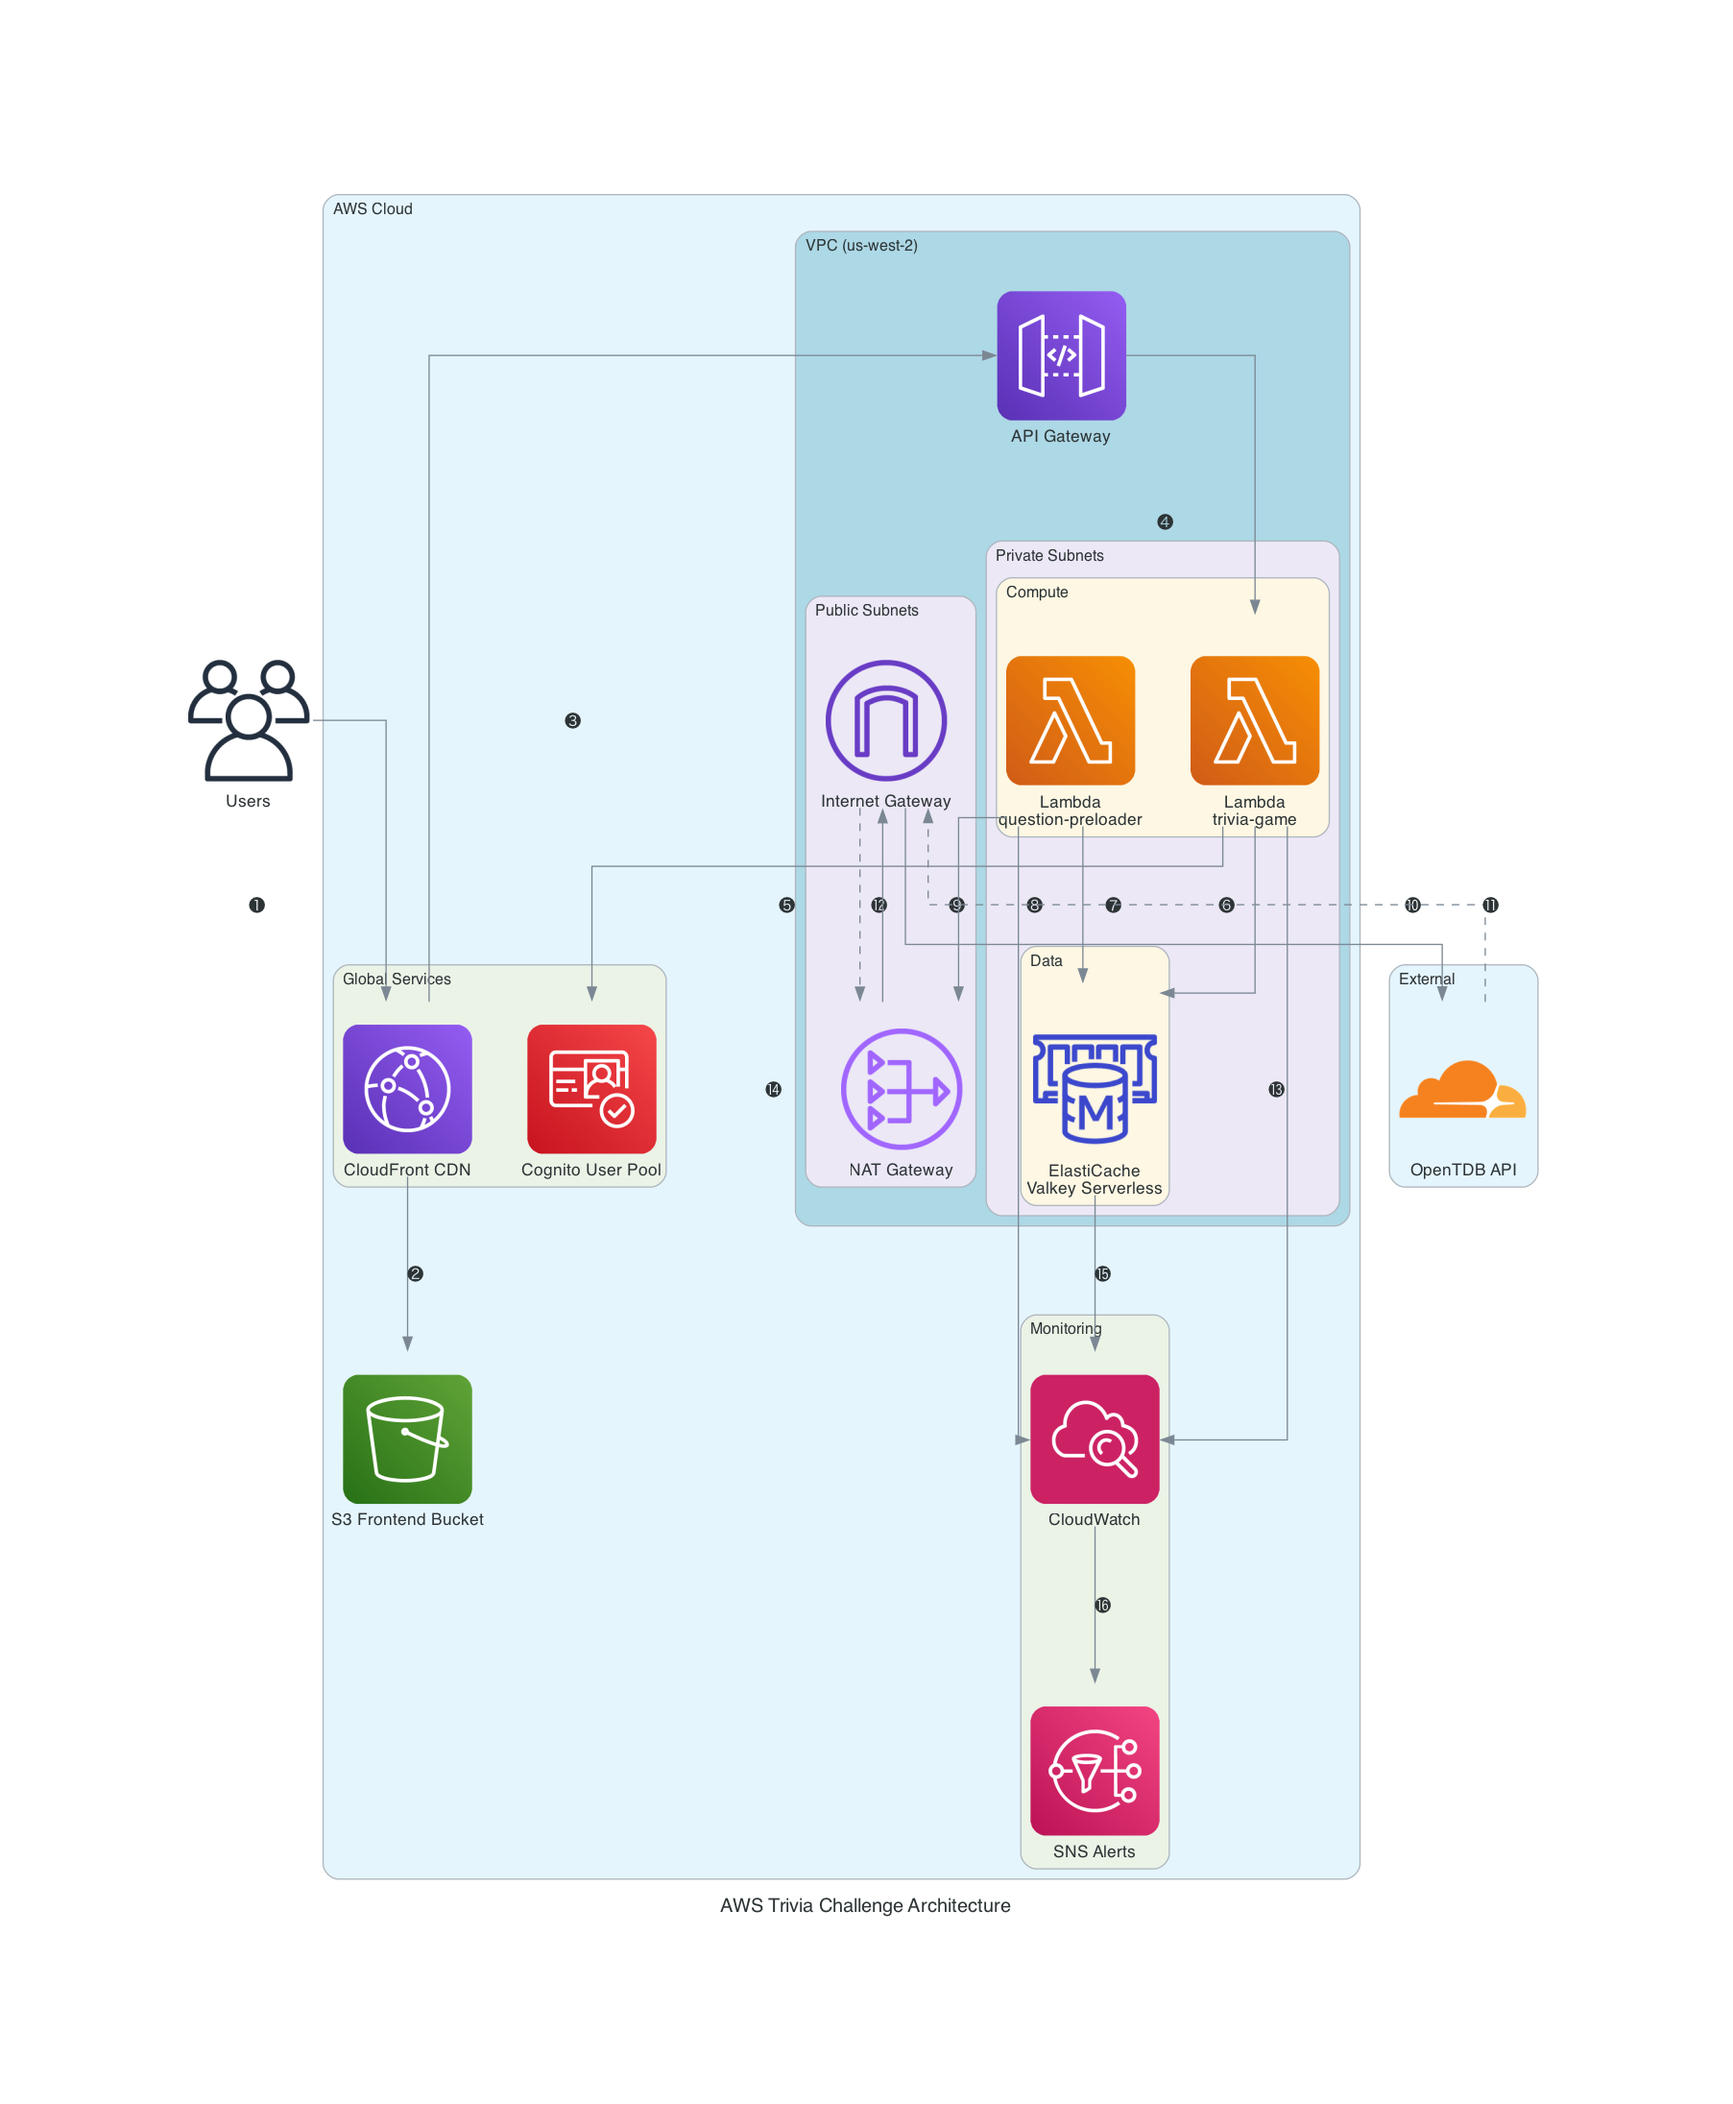
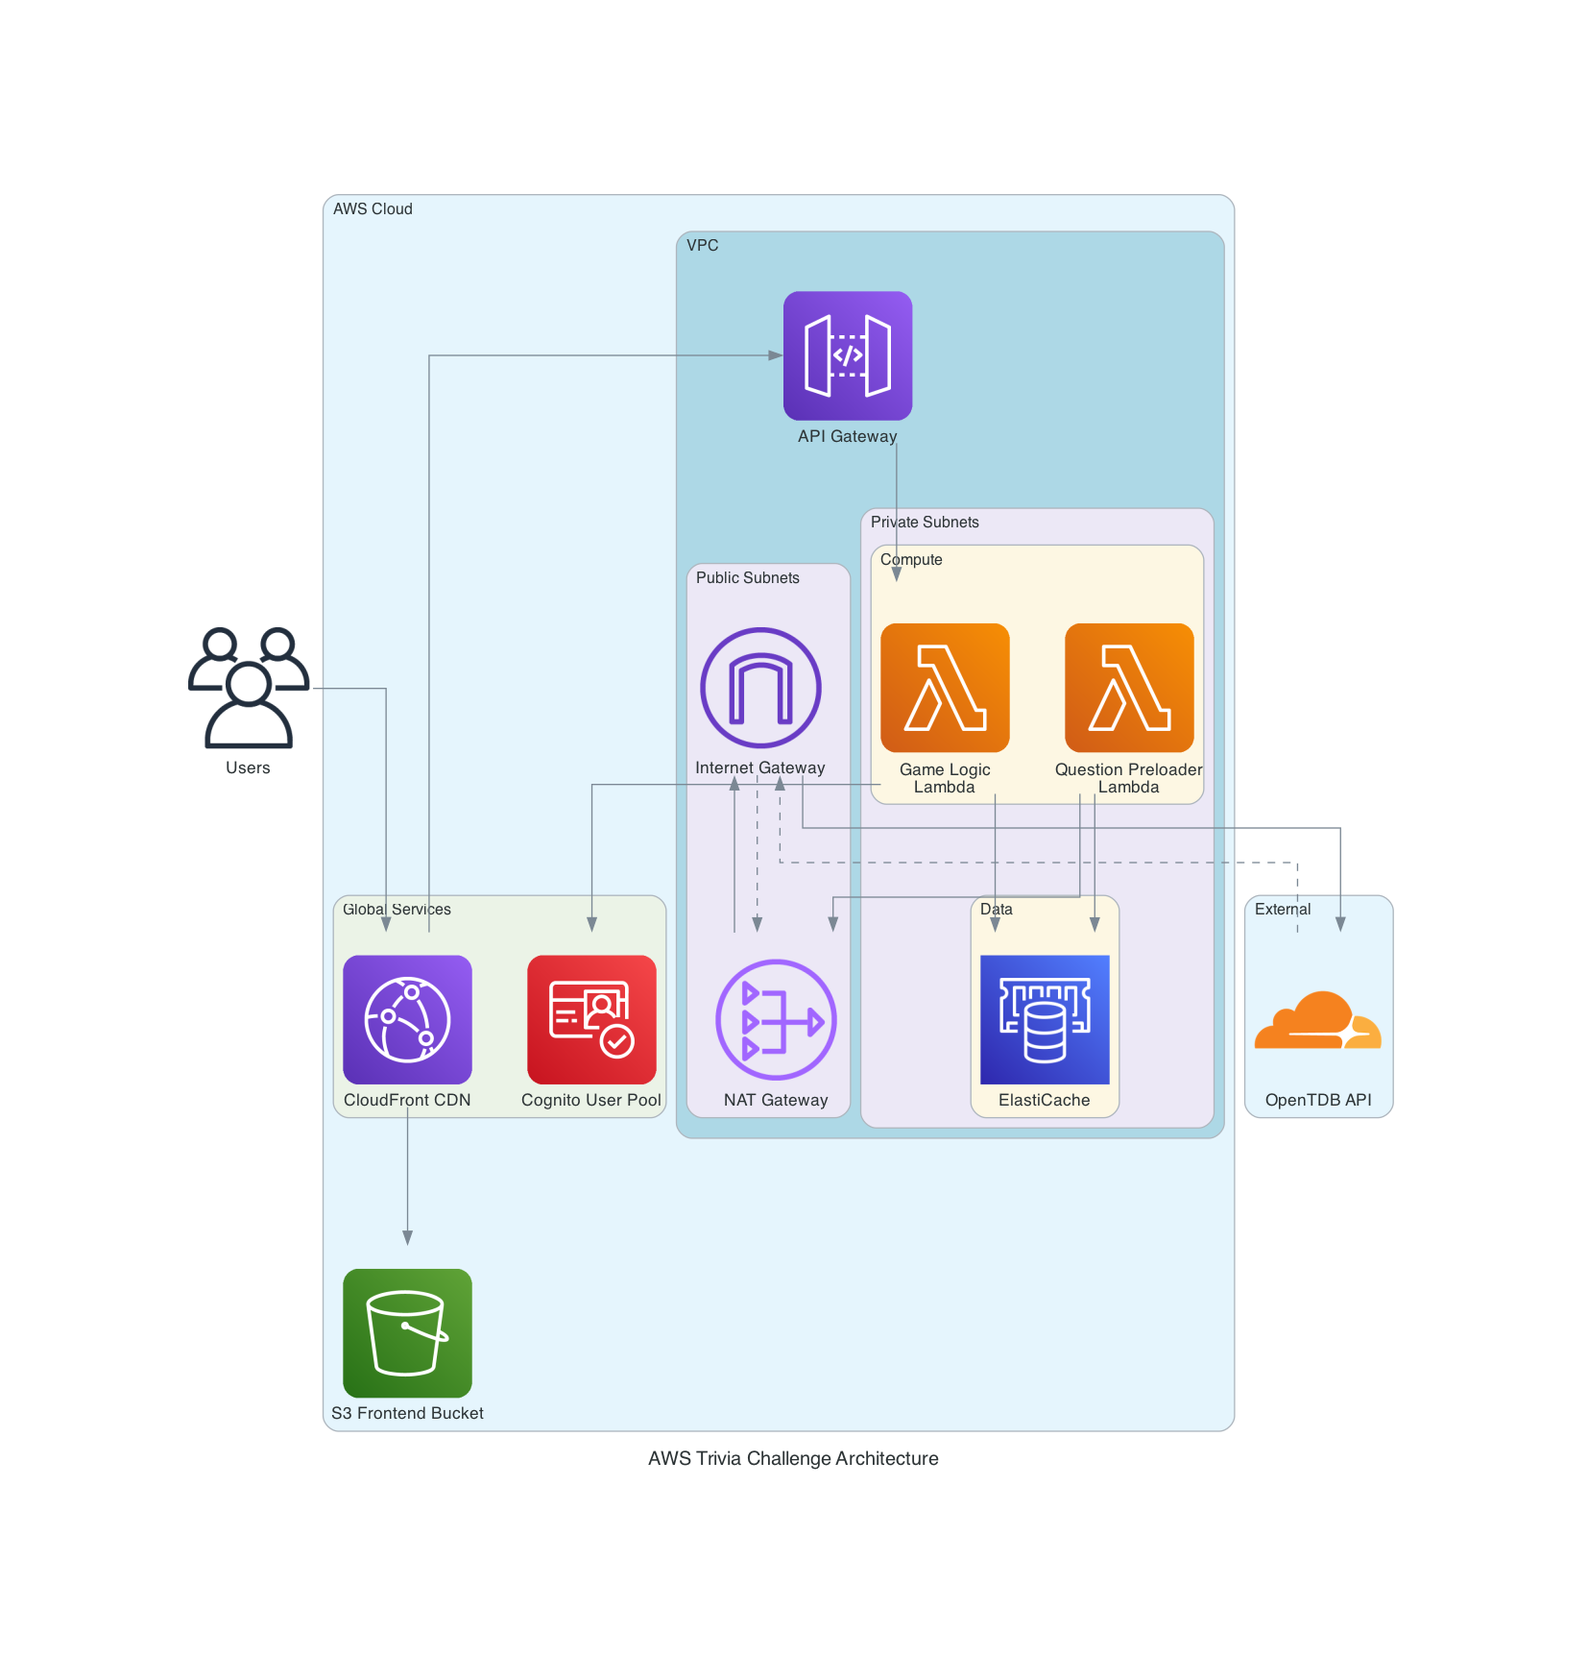
Final commit: updated architecture diagram, question preloader, and cleanup files

Changed region(s): [[0.0925, 0.0922, 0.8942, 0.9223]]

diff --git a/load-questions.js b/load-questions.js
@@ -1,0 +1,147 @@
+const axios = require('axios');
+const valkeyClient = require('./valkey-client');
+
+// HTML entity decoder
+const HTML_ENTITIES = {
+    '&amp;': '&',
+    '&lt;': '<',
+    '&gt;': '>',
+    '&quot;': '"',
+    '&#x27;': "'",
+    '&#039;': "'",
+    '&apos;': "'",
+    '&nbsp;': ' ',
+    '&rsquo;': "'",
+    '&lsquo;': "'",
+    '&rdquo;': '"',
+    '&ldquo;': '"',
+    '&aelig;': 'æ',
+    '&iacute;': 'í',
+    '&oacute;': 'ó',
+    '&ccedil;': 'ç',
+    '&uuml;': 'ü',
+    '&ouml;': 'ö',
+    '&auml;': 'ä',
+    '&eacute;': 'é',
+    '&egrave;': 'è',
+    '&ecirc;': 'ê',
+    '&euml;': 'ë',
+    '&ntilde;': 'ñ',
+    '&agrave;': 'à',
+    '&aacute;': 'á',
+    '&acirc;': 'â',
+    '&atilde;': 'ã',
+    '&ugrave;': 'ù',
+    '&uacute;': 'ú',
+    '&ucirc;': 'û',
+    '&igrave;': 'ì',
+    '&icirc;': 'î',
+    '&iuml;': 'ï',
+    '&ograve;': 'ò',
+    '&ocirc;': 'ô',
+    '&otilde;': 'õ',
+    '&lrm;': '',
+    '&rlm;': ''
+};
+
+function decodeHtmlEntities(text) {
+    if (!text || typeof text !== 'string') return text;
+    
+    const entityRegex = /&(?:amp|lt|gt|quot|#x27|#039|apos|nbsp|rsquo|lsquo|rdquo|ldquo|aelig|[ioa](?:acute|grave|circ|tilde|uml)|[eun](?:acute|grave|circ|tilde|uml)|ccedil|[lr]m);/g;
+    
+    return text.replace(entityRegex, (match) => {
+        return HTML_ENTITIES[match] || match;
+    });
+}
+
+function getWeekKey() {
+    const now = new Date();
+    const year = now.getFullYear();
+    const week = getWeekNumber(now);
+    return `${year}-W${week.toString().padStart(2, '0')}`;
+}
+
+function getWeekNumber(date) {
+    const d = new Date(Date.UTC(date.getFullYear(), date.getMonth(), date.getDate()));
+    const dayNum = d.getUTCDay() || 7;
+    d.setUTCDate(d.getUTCDate() + 4 - dayNum);
+    const yearStart = new Date(Date.UTC(d.getUTCFullYear(), 0, 1));
+    return Math.ceil((((d - yearStart) / 86400000) + 1) / 7);
+}
+
+async function fetchQuestionsFromAPI(amount = 50, category = 9) {
+    try {
+        const response = await axios.get('https://opentdb.com/api.php', {
+            params: {
+                amount,
+                category,
+                type: 'multiple',
+                encode: 'url3986'
+            },
+            timeout: 10000
+        });
+
+        if (response.data.response_code !== 0) {
+            throw new Error(`API error: ${response.data.response_code}`);
+        }
+
+        return response.data.results.map((q, index) => ({
+            id: `api_${category}_${Date.now()}_${index}`,
+            question: decodeHtmlEntities(decodeURIComponent(q.question)),
+            correct_answer: decodeHtmlEntities(decodeURIComponent(q.correct_answer)),
+            incorrect_answers: q.incorrect_answers.map(a => decodeHtmlEntities(decodeURIComponent(a))),
+            category: decodeHtmlEntities(decodeURIComponent(q.category)),
+            difficulty: q.difficulty
+        }));
+    } catch (error) {
+        console.error('Failed to fetch from API:', error.message);
+        return [];
+    }
+}
+
+async function loadWeeklyQuestions() {
+    try {
+        console.log('Loading questions for current week...');
+        
+        const weekKey = getWeekKey();
+        console.log(`Week key: ${weekKey}`);
+        
+        // Fetch questions from multiple categories
+        const categories = [9, 17, 23, 21, 11]; // General, Science, History, Sports, Entertainment
+        let allQuestions = [];
+        
+        for (const category of categories) {
+            console.log(`Fetching 50 questions from category ${category}...`);
+            const questions = await fetchQuestionsFromAPI(50, category);
+            allQuestions = allQuestions.concat(questions);
+            
+            // Rate limiting - wait 1 second between requests
+            await new Promise(resolve => setTimeout(resolve, 1000));
+        }
+        
+        console.log(`Total questions fetched: ${allQuestions.length}`);
+        
+        if (allQuestions.length > 0) {
+            await valkeyClient.storeWeeklyQuestions(weekKey, allQuestions);
+            console.log(`Stored ${allQuestions.length} questions in cache for week ${weekKey}`);
+            
+            // Test retrieval
+            const cached = await valkeyClient.getWeeklyQuestions(weekKey);
+            console.log(`Verified: ${cached ? cached.length : 0} questions in cache`);
+        } else {
+            console.log('No questions fetched, cache not updated');
+        }
+        
+    } catch (error) {
+        console.error('Error loading weekly questions:', error);
+    }
+}
+
+// Run the script
+loadWeeklyQuestions().then(() => {
+    console.log('Question loading completed');
+    process.exit(0);
+}).catch(error => {
+    console.error('Script failed:', error);
+    process.exit(1);
+});

diff --git a/question-preloader.js b/question-preloader.js
@@ -282,4 +282,8 @@ const handler = async (event, context) => {
     }
 };
 
-module.exports = { questionPreloader, handler };
+module.exports = { 
+    questionPreloader, 
+    handler,
+    preloadWeeklyQuestions: () => questionPreloader.preloadWeeklyQuestions()
+};

diff --git a/architecture/architecture_diagram.py b/architecture/architecture_diagram.py
@@ -25,7 +25,7 @@ with Diagram("AWS Trivia Challenge Architecture", show=False, direction="TB", gr
             cloudfront = CloudFront("CloudFront CDN")
             cognito = Cognito("Cognito User Pool")
         
-        with Cluster("VPC (us-west-2)", graph_attr={"style": "rounded", "bgcolor": "lightblue"}):
+        with Cluster("VPC", graph_attr={"style": "rounded", "bgcolor": "lightblue"}):
             api_gw = APIGateway("API Gateway")
             
             with Cluster("Public Subnets", graph_attr={"rank": "min"}):
